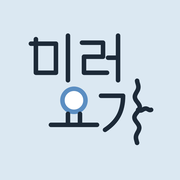
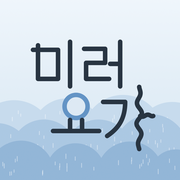
홈 화면 아이콘을 언덕 배경으로 바꾸고 글씨를 가운데로
Claude-Session: https://claude.ai/code/session_0143X7LFbY1hNs7cuPjz3eyV

diff --git a/index.html b/index.html
@@ -9,15 +9,15 @@
 <meta name="theme-color" content="#eef3f7">
 <title>미러 요가</title>
 <!-- 홈 화면 아이콘: 시안 1 (연하늘 + 남색 글씨). 다른 시안은 icons/icon-*-1024.png -->
-<!-- ?v=2: 아이콘을 바꿨을 때 브라우저가 예전 그림을 다시 받게 하는 표시 -->
-<link rel="apple-touch-icon" sizes="180x180" href="icons/apple-touch-icon.png?v=2">
-<link rel="icon" href="favicon.ico?v=2" sizes="any">
-<link rel="icon" type="image/png" sizes="16x16" href="icons/favicon-16.png?v=2">
-<link rel="icon" type="image/png" sizes="32x32" href="icons/favicon-32.png?v=2">
-<link rel="icon" type="image/png" sizes="48x48" href="icons/favicon-48.png?v=2">
-<link rel="icon" type="image/png" sizes="96x96" href="icons/icon-96.png?v=2">
-<link rel="icon" type="image/png" sizes="192x192" href="icons/icon-192.png?v=2">
-<link rel="manifest" href="manifest.webmanifest?v=2">
+<!-- ?v=3: 아이콘을 바꿨을 때 브라우저가 예전 그림을 다시 받게 하는 표시 -->
+<link rel="apple-touch-icon" sizes="180x180" href="icons/apple-touch-icon.png?v=3">
+<link rel="icon" href="favicon.ico?v=3" sizes="any">
+<link rel="icon" type="image/png" sizes="16x16" href="icons/favicon-16.png?v=3">
+<link rel="icon" type="image/png" sizes="32x32" href="icons/favicon-32.png?v=3">
+<link rel="icon" type="image/png" sizes="48x48" href="icons/favicon-48.png?v=3">
+<link rel="icon" type="image/png" sizes="96x96" href="icons/icon-96.png?v=3">
+<link rel="icon" type="image/png" sizes="192x192" href="icons/icon-192.png?v=3">
+<link rel="manifest" href="manifest.webmanifest?v=3">
 <link rel="stylesheet" href="https://cdn.jsdelivr.net/gh/orioncactus/pretendard@v1.3.9/dist/web/variable/pretendardvariable-dynamic-subset.min.css">
 <style>
 /* VOICE: 맑고 조용한 요가 강사. 행사장 TV에서 3m 떨어져도 읽히는 큰 글씨

diff --git a/icons/README.md b/icons/README.md
@@ -10,3 +10,4 @@
 
 홈 화면 아이콘(apple-touch-icon.png 180px, icon-192/512.png, favicon-32.png)은 시안 1에서 만들었습니다.
 iOS 앱으로 만들 때는 원하는 시안의 1024px 파일을 Xcode의 AppIcon에 넣으면 됩니다.
+- icon-6-hills-1024.png: 연하늘 언덕 배경 (책숲과 같은 구도) — 지금 홈 화면 아이콘
